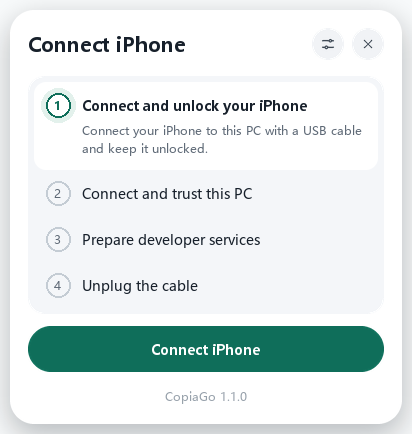
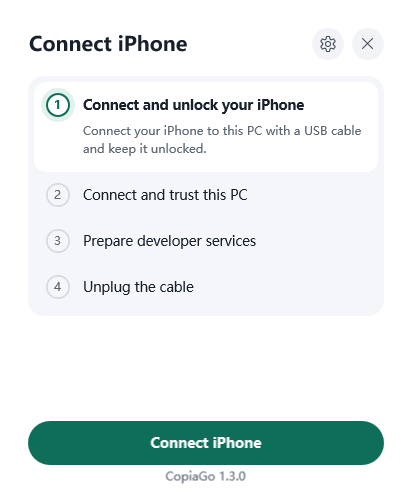
更新 1.3.0 截图并在面板隐藏后归还内存
- README 截图改用 1.3.0 界面演示程序重新截取，中英文各三张，透明背景
- 英文 README 恢复使用英文截图，移除已不引用的语言设置截图
- 演示程序支持英文示例数据、全尺寸样图和首次配对页
- 面板隐藏后整理堆并裁剪工作集，任务管理器内存从约 34 MB 回落到约 3 MB

diff --git a/copiago-rs/crates/copiago-ui/examples/history_page.rs b/copiago-rs/crates/copiago-ui/examples/history_page.rs
@@ -60,6 +60,21 @@ mod example {
     const TIMER: usize = 1;
     const WM_MOUSELEAVE: u32 = 0x02A3;
     const PREVIEW: &[u8] = include_bytes!("assets/history-preview.png");
+    // A full-size picture for the image card, decoded like an original from history.
+    const ORIGINAL: &[u8] = include_bytes!("assets/history-original.png");
+
+    /// COPIAGO_SHOT_LANG=en renders the English UI with English sample data.
+    fn language() -> Language {
+        if env::var_os("COPIAGO_SHOT_LANG").is_some_and(|value| value == "en") {
+            Language::En
+        } else {
+            Language::ZhCn
+        }
+    }
+
+    fn t(zh: &'static str, en: &'static str) -> &'static str {
+        if language() == Language::En { en } else { zh }
+    }
 
     fn fake_page(sample: &str) -> (HistoryPage, [HistoryList; 2]) {
         let today = Local::now().date_naive();
@@ -79,8 +94,11 @@ mod example {
                 today,
                 "14:23",
                 "text",
-                "会议改到周四下午三点，请提前十分钟到五楼会议室，带上评审材料和项目进度说明。"
-                    .as_bytes(),
+                t(
+                    "会议改到周四下午三点，请提前十分钟到五楼会议室，带上评审材料和项目进度说明。",
+                    "The review moved to Thursday at 3 PM. Please arrive ten minutes early with the project notes.",
+                )
+                .as_bytes(),
             ),
             entry(5, today, "13:08", "image", PREVIEW),
             entry(
@@ -95,19 +113,19 @@ mod example {
                 date(4),
                 "16:30",
                 "file",
-                "项目交付清单.pdf\n1394606".as_bytes(),
+                t("项目交付清单.pdf\n1394606", "Delivery checklist.pdf\n1394606").as_bytes(),
             ),
-            entry(2, old, "09:19", "text", "跨年保留的示例条目".as_bytes()),
+            entry(2, old, "09:19", "text", t("跨年保留的示例条目", "An item kept from last year").as_bytes()),
         ];
         let pc = vec![
             entry(12, today, "15:04", "text", b"Release checklist: verify the portable build, inspect the release notes, and update the sample"),
             entry(11, date(1), "17:42", "image", PREVIEW),
-            entry(10, date(7), "16:56", "text", "从电脑复制的项目备注".as_bytes()),
+            entry(10, date(7), "16:56", "text", t("从电脑复制的项目备注", "Project notes copied on the PC").as_bytes()),
         ];
-        let mut page = HistoryPage::new(Language::ZhCn);
+        let mut page = HistoryPage::new(language());
         page.set_status(HistoryStatus {
             connection: Status::Connected,
-            device_name: "示例 iPhone".into(),
+            device_name: t("示例 iPhone", "iPhone").into(),
             detail: Some(message!("已连接（无线）")),
             tone: StatusTone::Success,
             ..HistoryStatus::default()
@@ -200,7 +218,9 @@ mod example {
     }
 
     fn thumbnail(request: ThumbnailRequest<'_>) -> Option<ThumbnailPixels> {
-        let picture = decode_scaled(request.preview?, 88, 56).ok()?;
+        let picture = decode_scaled(ORIGINAL, request.width, request.height)
+            .or_else(|_| decode_scaled(request.preview.unwrap_or(PREVIEW), 88, 56))
+            .ok()?;
         let (width, height) = picture.dimensions();
         Some(ThumbnailPixels {
             width,

diff --git a/copiago-rs/crates/copiago-ui/examples/settings_page.rs b/copiago-rs/crates/copiago-ui/examples/settings_page.rs
@@ -144,23 +144,38 @@ mod preview {
             y: coordinates.next().transpose()?.unwrap_or(80),
         };
         let data = fixture_dir()?;
-        let mut state = SettingsState::load(data, "2.0.0-beta");
-        if probe {
+        // COPIAGO_SHOT_SCREEN=guide opens the first-pairing guide of an unpaired PC, and
+        // COPIAGO_SHOT_LANG=en switches the UI to English, for README screenshots.
+        let shot_guide = env::var_os("COPIAGO_SHOT_SCREEN").is_some_and(|value| value == "guide");
+        let shot_english = env::var_os("COPIAGO_SHOT_LANG").is_some_and(|value| value == "en");
+        let mut state = SettingsState::load(data, env!("CARGO_PKG_VERSION"));
+        if shot_english {
+            state.activate(
+                SettingsAction::ChooseLanguage(LanguagePreference::En),
+                Instant::now(),
+            );
+        } else if probe {
             state.activate(
                 SettingsAction::ChooseLanguage(LanguagePreference::ZhCn),
                 Instant::now(),
             );
         }
         state.set_startup(StartupState::Available { enabled: false });
-        state.set_available_version(Some("2.0.1".into()));
-        state.set_connection(ConnectionState {
-            phase: ConnectionPhase::Connected { wireless: true },
-            device: Some(DeviceInfo {
-                name: "测试 iPhone".into(),
-                model: "iPhone 15 Pro Max".into(),
-                os_version: "27.2.1".into(),
-            }),
-            ..ConnectionState::default()
+        if !shot_guide {
+            state.set_available_version(Some("2.0.1".into()));
+        }
+        state.set_connection(if shot_guide {
+            ConnectionState::default()
+        } else {
+            ConnectionState {
+                phase: ConnectionPhase::Connected { wireless: true },
+                device: Some(DeviceInfo {
+                    name: "测试 iPhone".into(),
+                    model: "iPhone 15 Pro Max".into(),
+                    os_version: "27.2.1".into(),
+                }),
+                ..ConnectionState::default()
+            }
         });
 
         // SAFETY: Set the DPI awareness for this example before creating its first window.
@@ -181,7 +196,11 @@ mod preview {
         let thread = CompositionThread::new()?;
         let mut popup = PopupHost::new(&thread)?;
         let mut live = None;
-        let mut screen = SettingsScreen::Settings;
+        let mut screen = if shot_guide {
+            SettingsScreen::PairingGuide
+        } else {
+            SettingsScreen::Settings
+        };
         popup.show(position, SettingsView::BOUNDS, !probe, |scene| {
             live = Some(Preview::new(scene, policy(), &state, screen)?);
             Ok(())

diff --git a/copiago-rs/crates/copiago-app/src/gui.rs b/copiago-rs/crates/copiago-app/src/gui.rs
@@ -421,6 +421,7 @@ impl Host<'_> {
         }
         if was_closing && self.popup.closing_until().is_none() {
             diagnostic::event(format_args!("event=popup_hidden"));
+            release_memory();
         }
     }
 
@@ -497,4 +498,20 @@ pub(super) fn report_error(action: &'static str, error: &io::Error) {
         error.raw_os_error(),
         error.kind()
     ));
+}
+
+/// Hand memory used by the panel back to Windows once it is hidden. Rendering and image
+/// decoding leave freed heap blocks committed, and the tray then sits on pages it no longer
+/// needs. Both calls are advisory; failures change nothing.
+fn release_memory() {
+    use windows_sys::Win32::System::{
+        Memory::{GetProcessHeap, HeapCompact},
+        Threading::{GetCurrentProcess, SetProcessWorkingSetSize},
+    };
+    // SAFETY: The process heap and current-process pseudo handle are always valid. Passing
+    // usize::MAX for both sizes asks Windows to trim the working set.
+    unsafe {
+        HeapCompact(GetProcessHeap(), 0);
+        SetProcessWorkingSetSize(GetCurrentProcess(), usize::MAX, usize::MAX);
+    }
 }

diff --git a/README.md b/README.md
@@ -31,9 +31,9 @@ Run the new installer over the old version. Pairing records, history and setting
 
 | First-time pairing | System tray popup | Clipboard history |
 | --- | --- | --- |
-| [![CopiaGo first-time pairing guide](docs/images/first-pairing.png)](docs/images/first-pairing.png) | [![CopiaGo system tray popup with clipboard history turned off](docs/images/tray-popup.png)](docs/images/tray-popup.png) | [![CopiaGo clipboard history with text, image, and file entries](docs/images/clipboard-history.png)](docs/images/clipboard-history.png) |
+| [![CopiaGo first-time pairing guide](docs/images/first-pairing-en.png)](docs/images/first-pairing-en.png) | [![CopiaGo system tray popup with clipboard history turned off](docs/images/tray-popup-en.png)](docs/images/tray-popup-en.png) | [![CopiaGo clipboard history with text, image, and file entries](docs/images/clipboard-history-en.png)](docs/images/clipboard-history-en.png) |
 
-Screenshots are from CopiaGo 1.1.0 with sample connection status and history. Some interface details changed in 1.3.0.
+Screenshots are from CopiaGo 1.3.0 with sample connection status and history.
 
 ## What syncs
 

diff --git a/README.zh-CN.md b/README.zh-CN.md
@@ -33,7 +33,7 @@
 | --- | --- | --- |
 | [![CopiaGo 首次配对引导](docs/images/first-pairing.png)](docs/images/first-pairing.png) | [![CopiaGo 的托盘弹窗，历史记录处于关闭状态](docs/images/tray-popup.png)](docs/images/tray-popup.png) | [![CopiaGo 剪贴板中的文字、图片和文件记录](docs/images/clipboard-history.png)](docs/images/clipboard-history.png) |
 
-截图来自 CopiaGo 1.1.0，连接状态和历史记录使用示例数据。1.3.0 的界面细节有所调整。
+截图来自 CopiaGo 1.3.0，连接状态和历史记录使用示例数据。
 
 ## 同步范围
 
